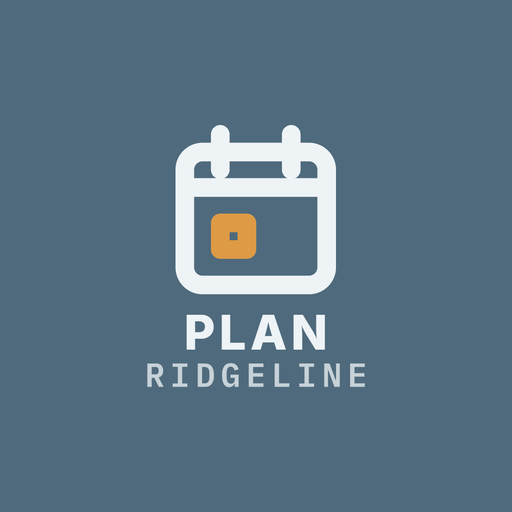
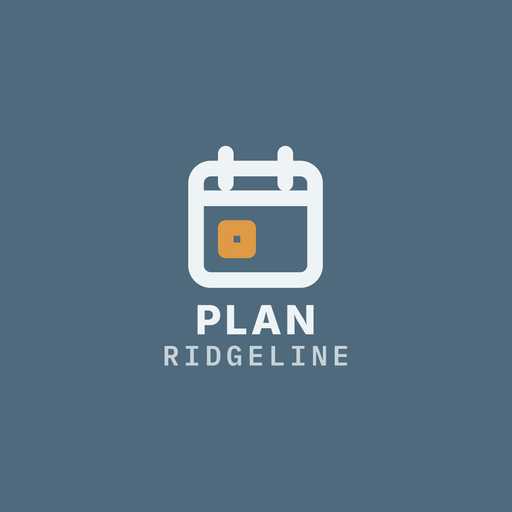
全家族版面修正：窄手機不左右滑／按鈕不擠扁、前面長說明改收合（紅線留外面）、桌面圖示縮進手機安全區
老闆手機回報（2026-10-19）：桌面圖示字被切、窄手機可左右滑、搜尋鈕擠扁、前面說明太長。版面以 360／375／390／412 四種寬度檢查（04_管理工具\版面檢查）；收合只換排版不刪字；maskable 圖示內容縮到半徑 ≤0.28。408 另加介紹文字重點標示（數字粗體、⚠ 句上警示色）。各支原有測試全過，細節見各自更新記錄。

Changed region(s): [[0.2812, 0.2188, 0.7188, 0.7812]]

diff --git a/sw.js b/sw.js
@@ -1,4 +1,4 @@
-const C='study-planner-v37-adventure';
+const C='study-planner-v38-adventure';
 const A=['./','index.html','manifest.json','icon-192.png','icon-512.png','icon-maskable-512.png','icon.svg','ridgeline-ui.css','favicon.svg','favicon-32.png','rl-mark-denali-white.png','rl-mark-denali-navy.png',
   'vendor/round-ui/sp-round.woff2','vendor/fluent-3d/ninja.png','vendor/fluent-3d/fire.png','vendor/fluent-3d/star.png','vendor/fluent-3d/check.png','vendor/fluent-3d/calendar.png','vendor/fluent-3d/tearoff.png','vendor/fluent-3d/scroll.png','vendor/fluent-3d/swords.png','vendor/fluent-3d/gear.png','vendor/fluent-3d/locked.png','vendor/fluent-3d/timer.png'];
 self.addEventListener('install',e=>{e.waitUntil(caches.open(C).then(c=>c.addAll(A).catch(()=>{})))});

diff --git a/更新記錄.md b/更新記錄.md
@@ -2,6 +2,12 @@
 
 > 一支一檔規則：本 App 有任何異動就在最上面新增一筆。總覽見 `Desktop\App專案\ARCHITECTURE.md`。
 
+## 2026-10-19 · 手機桌面圖示的字被切：maskable 縮進 Android 安全區（sw study-planner-v37-adventure→study-planner-v38-adventure；未 commit／未部署）
+
+- 問題：老闆 Android 手機上 408 的安裝圖示 DOLOMITES 被遮罩切成「OLOMITE」。舊規則只保證墨跡在 W3C 安全圈（中心 80% 直徑、半徑 0.40）；但不少安裝路徑會把 maskable 直接當 Android 108dp 前景層，只露中間 72dp，啟動器再套圓形／圓角／水滴，實際放心可見只到半徑約 0.31（Android 安全區 66/108）。
+- 修法：只重產 manifest 指到的 maskable 圖（檔名不變、manifest 路徑不變），整張構圖以中心等比縮小到墨跡最大半徑 ≤ 0.28，背景色延伸滿版；其他尺寸與 any 圖不動。品牌正式檔、v5 母版與產生器（`mask_text.SAFE_R`）同步修正。
+- 本支：`icon-maskable-512.png` 半徑 0.332→0.279（以圖寬為 1；> 0.333 會被切）。
+
 ## 2026-10-19 · 版面美化「冒險日誌」（晨曦橘＋深藍；sw study-planner-v36-a11y→v37-adventure，**未部署、未 commit**）
 
 - **為什麼**：七系列（700–704）統一「勇者冒險」家族語言（老闆選 A），讓特色與質感跑出來。評審扣分：桌機月曆格子巨大空白、主鈕置中漂浮（U4）；日曆格、任務卡、圖例各自一套樣式（U2）。
